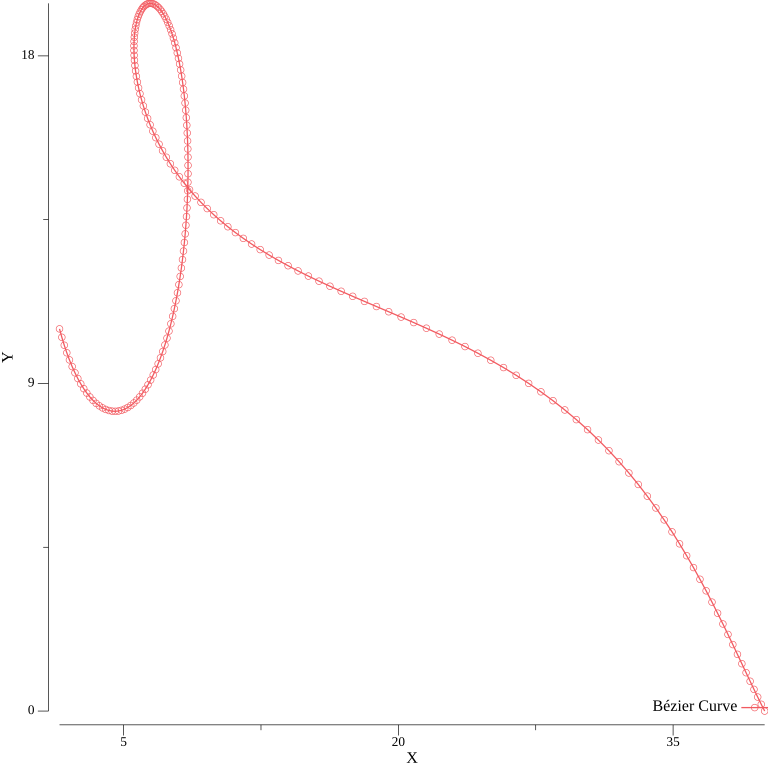
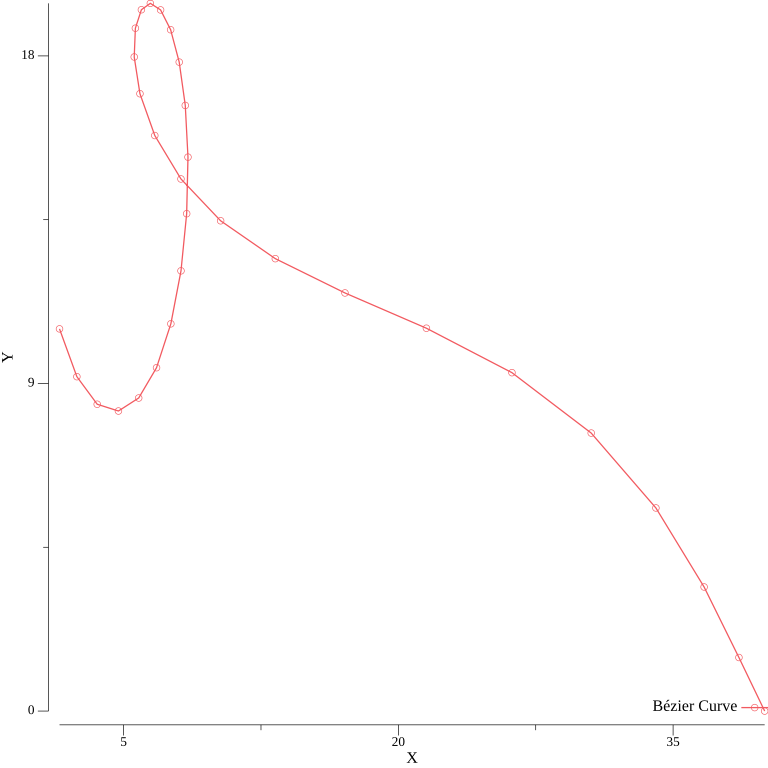
WIP

diff --git a/bezier.go b/bezier.go
@@ -11,6 +11,25 @@ import (
 var x = []float64{40, 3.5, 25, 25, -5, -5, 15, -0.5, 19.5, 7, 1.5}
 var y = []float64{0, 36, 25, 1.5, 3, 33, 11, 35, 15.5, 0, 10.5}
 
+type Point struct {
+	x float64
+	y float64
+}
+
+var points__ = []Point{
+	{x: x[0], y: y[0]},
+	{x: x[1], y: y[1]},
+	{x: x[2], y: y[2]},
+	{x: x[3], y: y[3]},
+	{x: x[4], y: y[4]},
+	{x: x[5], y: y[5]},
+	{x: x[6], y: y[6]},
+	{x: x[7], y: y[7]},
+	{x: x[8], y: y[8]},
+	{x: x[9], y: y[9]},
+	{x: x[10], y: y[10]},
+}
+
 func Newton(n int, k int) float64 {
 	var rez float64 = 1
 	for i := 1; i < k; i++ {
@@ -24,11 +43,9 @@ func Bernstein(n int, i int, t float64) float64 {
 	return Newton(n, i) * rez
 }
 
-var nbPlots = 200
-
-func Points() plotter.XYs {
-	var n int = 10
-	pts := make(plotter.XYs, nbPlots+1)
+func Points(points []Point, nbPlots int) []Point {
+	n := len(points) - 1
+	pts := make([]Point, nbPlots+1)
 
 	for z := 0; z <= nbPlots; z++ {
 		var current_x, current_y, t float64 = 0.0, 0.0, float64(z) / float64(nbPlots)
@@ -36,20 +53,33 @@ func Points() plotter.XYs {
 		var denominator float64 = 0.0
 
 		for i := 0; i <= n; i++ {
-			temp = x[i] * Bernstein(n, i, t)
+			temp = points[i].x * Bernstein(n, i, t)
 			current_x += temp
-			temp = y[i] * Bernstein(n, i, t)
+			temp = points[i].y * Bernstein(n, i, t)
 			current_y += temp
 			temp = Bernstein(n, i, t)
 			denominator += temp
 		}
 
-		pts[z].X = current_x / denominator
-		pts[z].Y = current_y / denominator
+		pts[z].x = current_x / denominator
+		pts[z].y = current_y / denominator
 	}
 
 	return pts
 }
+
+func PointsToPlotter(points []Point) plotter.XYs {
+
+	pts := make(plotter.XYs, len(points))
+
+	for i, point := range points {
+		pts[i].X = point.x
+		pts[i].Y = point.y
+	}
+
+	return pts
+}
+
 func main() {
 
 	p := plot.New()
@@ -58,7 +88,7 @@ func main() {
 	p.Y.Label.Text = "Y"
 
 	err := plotutil.AddLinePoints(p,
-		"Bézier Curve", Points())
+		"Bézier Curve", PointsToPlotter(Points(points__, 30)))
 	if err != nil {
 		panic(err)
 	}
